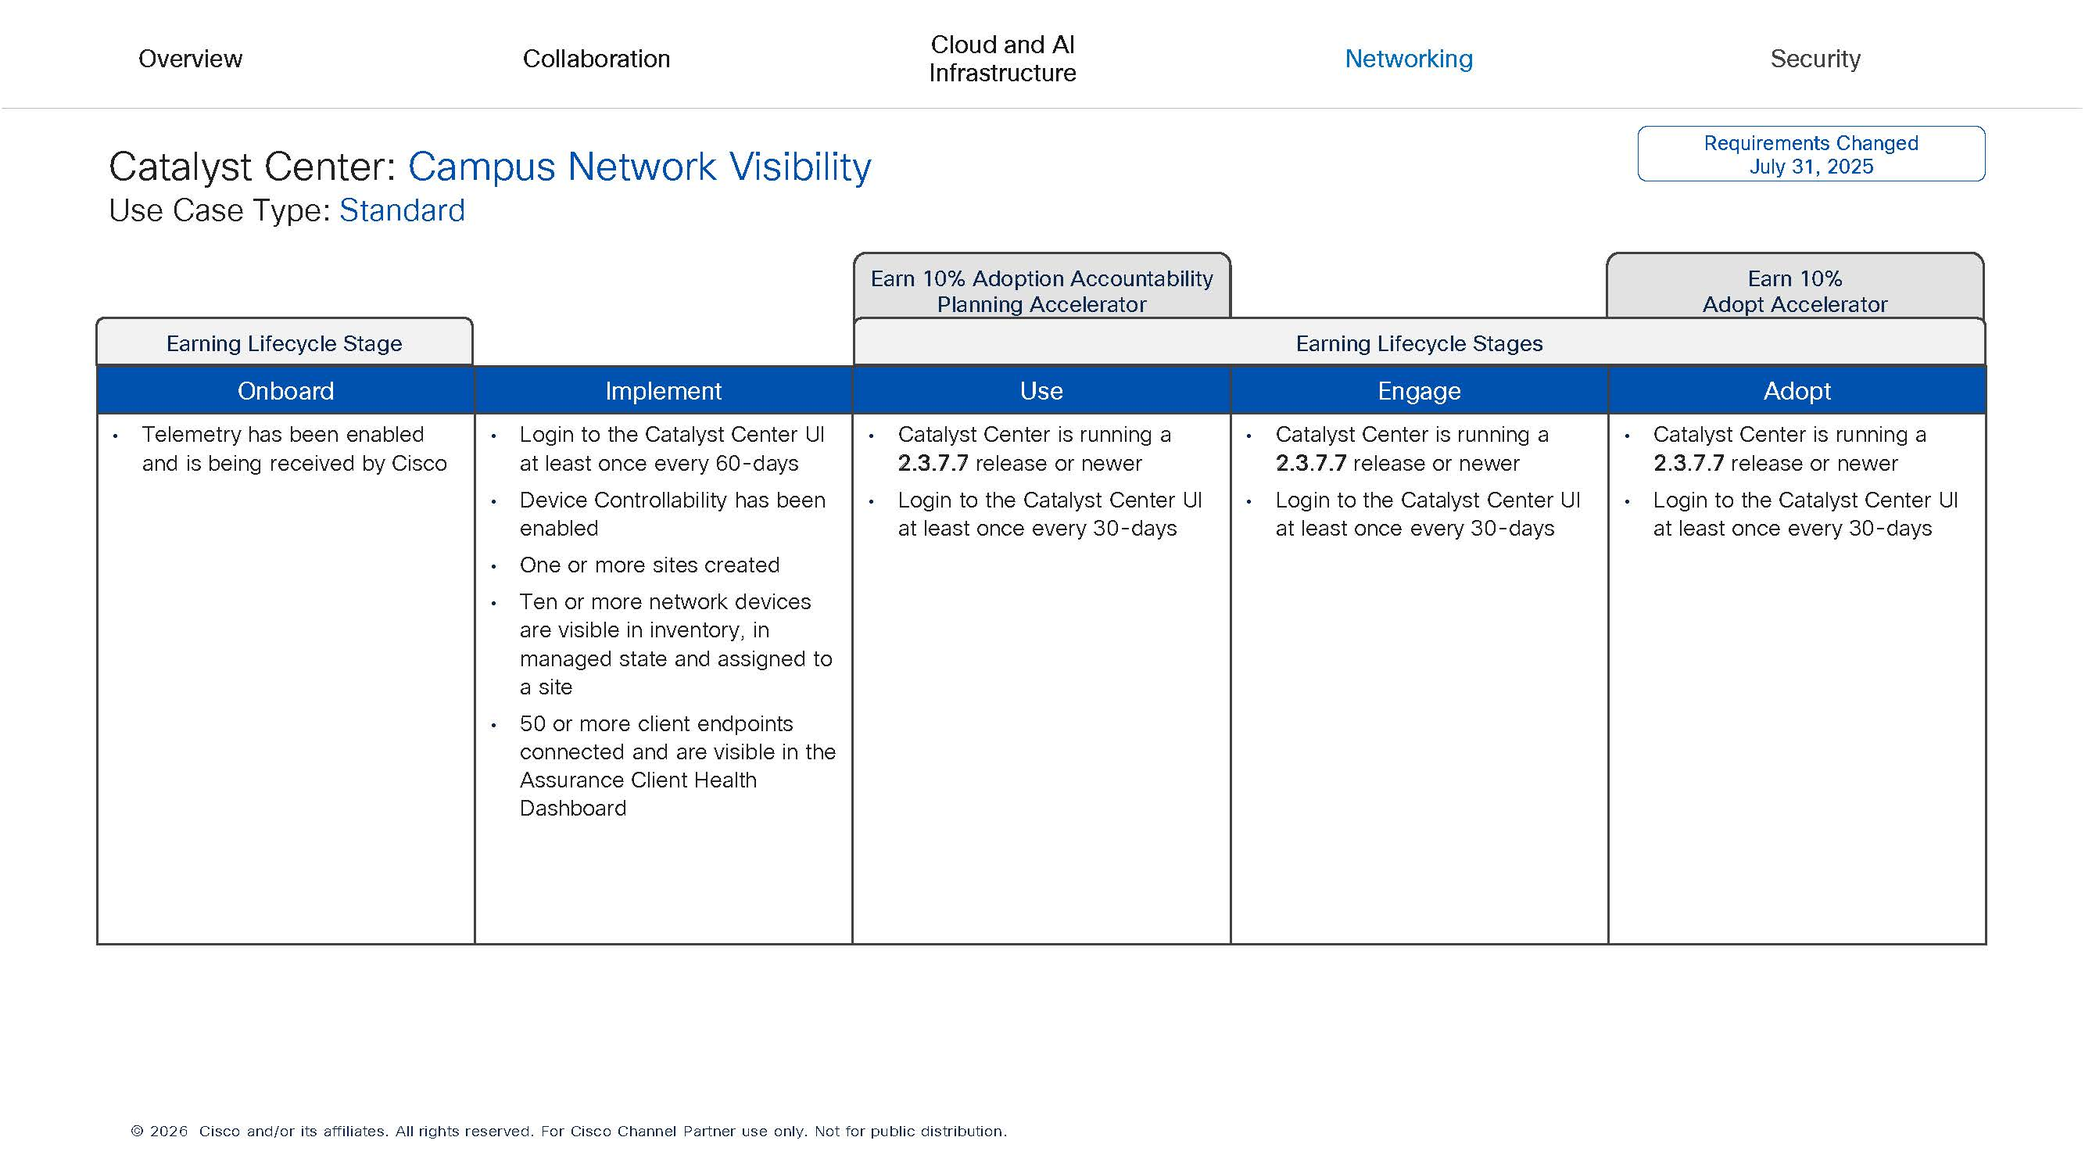
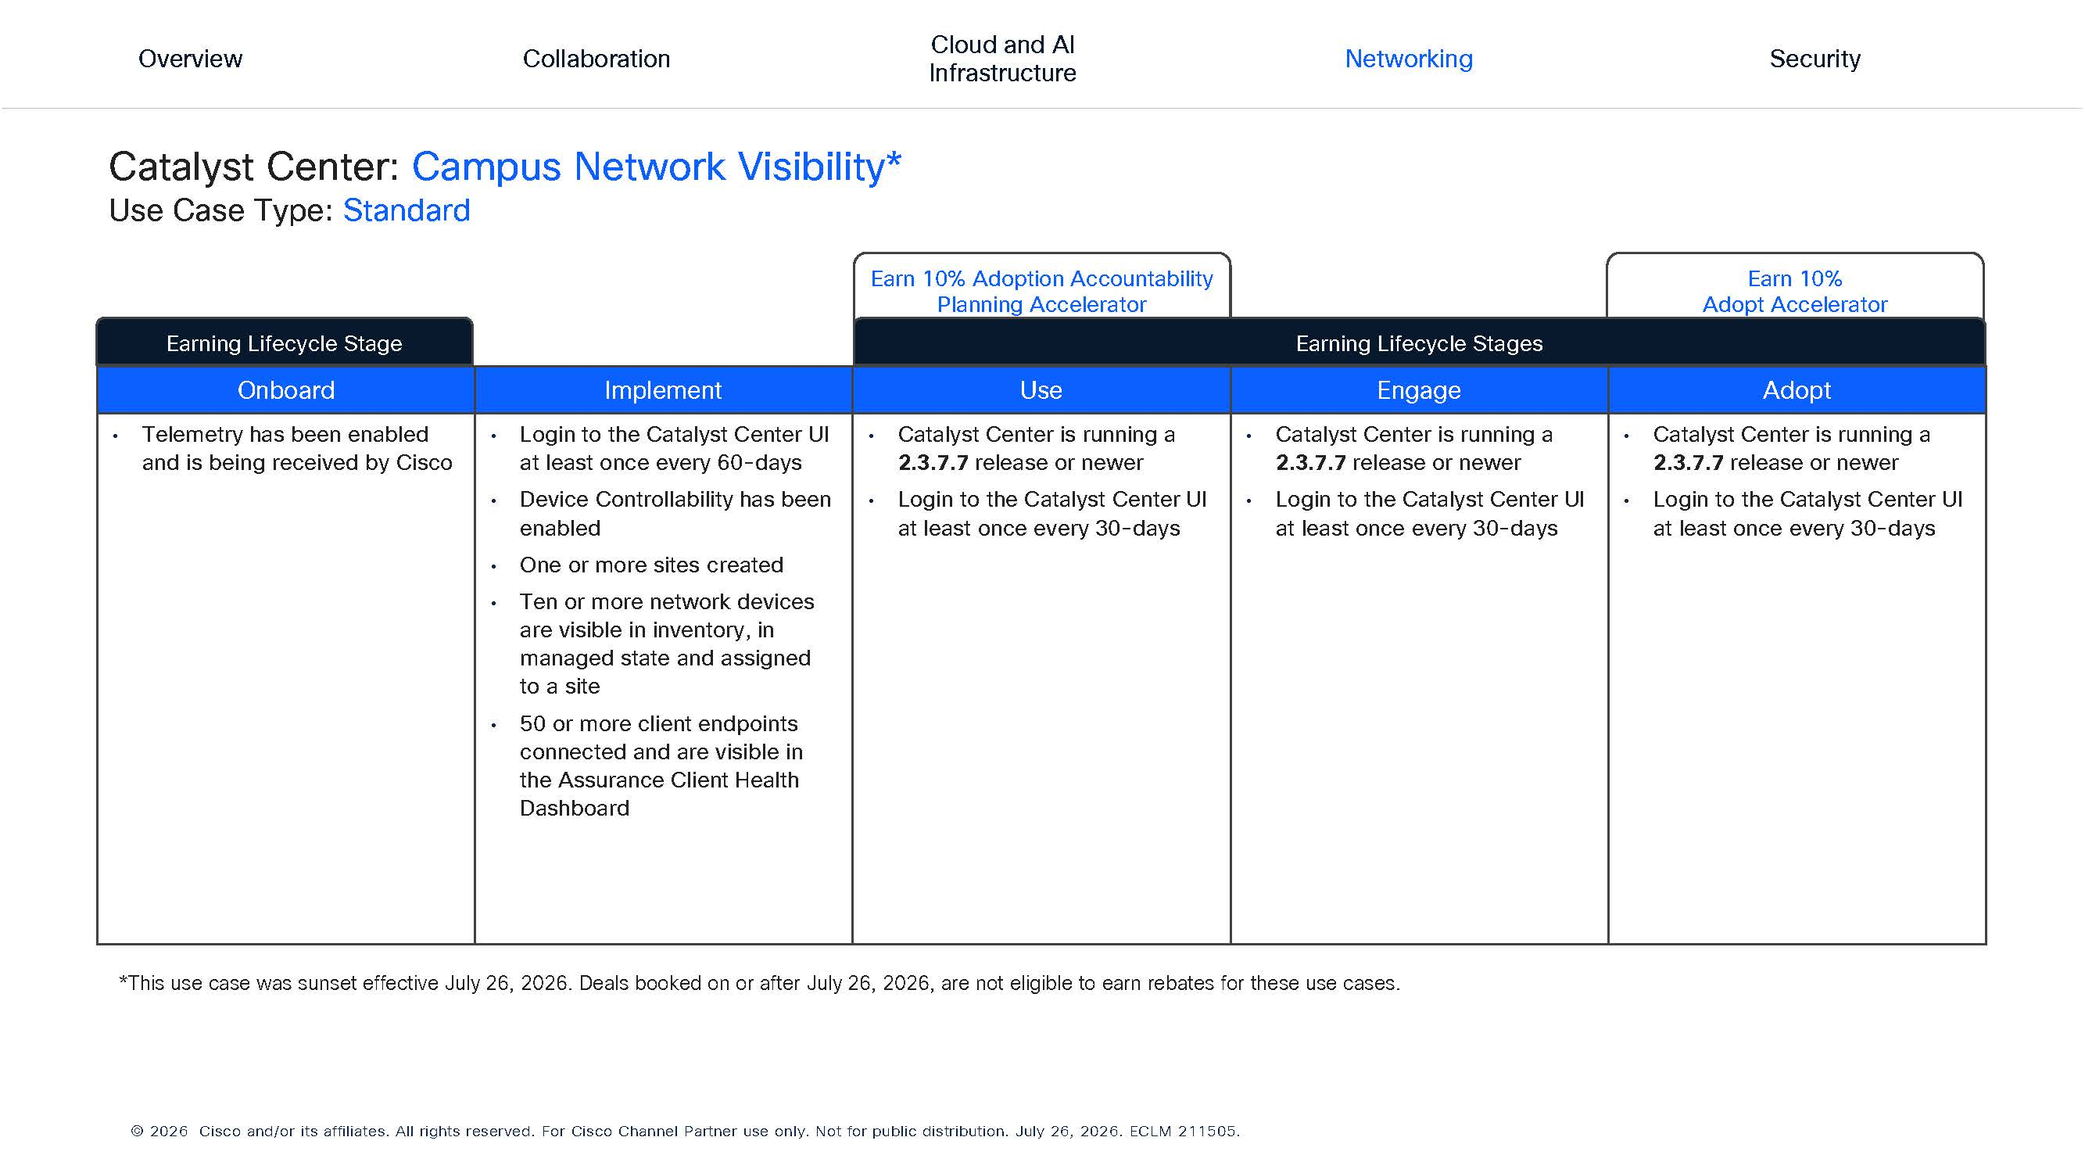
v1.8 — Aug updates
- Bump version to v1.8
- Add Cisco Secure Access offer (Security portfolio) with Secure Internet Access, Secure Private Access, DNS Defense use cases
- Add guide links and criteria images for new use cases
- Add incentive type (Standard/Advanced) to all mapping entries; Overview tab now uses mapping for type badges
- Fix Overview first column text clipping
- Fix portfolio repair (Step 2b) in transformData for No Offer records
- Add sunset asterisk on Campus Network Visibility, DNS Security, Public Cloud Security Policy and Access in Overview

diff --git a/js/mapping.js b/js/mapping.js
@@ -4,34 +4,37 @@
 // =============================================================================
 
 var CPI_MAPPING = [
-  { portfolio: "Networking",                offer: "Catalyst Center",               useCase: "Campus Network Automation",                              guide: "https://salesresources.cisco.com/Link/Content/DCVDV84mh3TJQ8QDPD3b8W2DTcW3" },
-  { portfolio: "Networking",                offer: "Catalyst Center",               useCase: "Campus Network Observability and Insights",               guide: "https://salesresources.cisco.com/Link/Content/DC9H9RVF89BMXGF2dXb2BFQFM7T8" },
-  { portfolio: "Networking",                offer: "Catalyst Center",               useCase: "Campus Network Programmability and Integrations",         guide: "https://salesresources.cisco.com/Link/Content/DCc8W63BVHF4W87WV3Pf8PVcFq8P" },
-  { portfolio: "Networking",                offer: "Catalyst Center",               useCase: "Campus Network Segmentation",                            guide: "https://salesresources.cisco.com/Link/Content/DCmXHjbd8qqG284Jc2h7fhqCjXhG" },
-  { portfolio: "Networking",                offer: "Catalyst Center",               useCase: "Campus Network Visibility",                              guide: "https://salesresources.cisco.com/Link/Content/DC7RTb387qGWh8qWmHhfR494d48j" },
-  { portfolio: "Networking",                offer: "Catalyst Center",               useCase: "Cloud Monitoring for Catalyst",                          guide: "https://salesresources.cisco.com/Link/Content/DCc6fbbGg4Dhh872BFDXbjP9T3c8" },
-  { portfolio: "Networking",                offer: "Catalyst Center",               useCase: "Internet and Cloud Visibility",                          guide: "https://salesresources.cisco.com/Link/Content/DCqqQQh9MFjC7GhB4f27p3Q29Mp8" },
-  { portfolio: "Networking",                offer: "Catalyst Center",               useCase: "Location Based Intelligence",                            guide: "https://salesresources.cisco.com/Link/Content/DCXqmHdjGfcB38CCfXbBcTWMXTQV" },
-  { portfolio: "Networking",                offer: "Meraki",                        useCase: "Foundational Networking and Security for Meraki",        guide: "https://salesresources.cisco.com/Link/Content/DCq946RP494fQGhMMj8Tj7DFhMFB" },
-  { portfolio: "Networking",                offer: "Meraki",                        useCase: "Programmability and Integrations for Meraki",            guide: "https://salesresources.cisco.com/Link/Content/DCJFWjc8VhHmdGc27fQgm7VG8dJ8" },
-  { portfolio: "Networking",                offer: "SD WAN",                        useCase: "Multicloud Connectivity",                                guide: "https://salesresources.cisco.com/Link/Content/DC6b33dB8DFQ7GFD884m9JCFVHRd" },
-  { portfolio: "Networking",                offer: "SD WAN",                        useCase: "SD-Routing",                                             guide: "https://salesresources.cisco.com/Link/Content/DCXpXdRBQW63287WQf7pVJm4fqFd" },
-  { portfolio: "Networking",                offer: "SD WAN",                        useCase: "Secure Automated WAN",                                   guide: "https://salesresources.cisco.com/Link/Content/DCT9mHbWqbjVq89JRmXWmcRjdF6d" },
-  { portfolio: "Security",                  offer: "Cisco Secure Network Analytics", useCase: "Network Security Analytics",                            guide: "https://salesresources.cisco.com/Link/Content/DC3h72hWC28BDG2MFXj9FQWdFgd8" },
-  { portfolio: "Security",                  offer: "Duo",                           useCase: "Secure Application Access With Phishing-Resistant MFA", guide: "https://salesresources.cisco.com/Link/Content/DChWJPjDhBHCG8cQQT4dJhGDGqXB" },
-  { portfolio: "Security",                  offer: "Cisco Umbrella",                useCase: "DNS Security",                                           guide: "https://salesresources.cisco.com/Link/Content/DCTmhf2TBqq4WG7Xh7TVbHDTFfF3" },
-  { portfolio: "Security",                  offer: "Cisco Umbrella",                useCase: "Public Cloud Security Policy and Access",                guide: "https://salesresources.cisco.com/Link/Content/DCJThRm6W4gMBGHWGRP9bRXh8Hjd" },
-  { portfolio: "Security",                  offer: "Cisco Secure Firewall",         useCase: "Data Center Firewall Operations",                        guide: "https://salesresources.cisco.com/Link/Content/DCHFpmXWT92HTGQCqH6Mfm3gCPj3" },
-  { portfolio: "Security",                  offer: "Cisco Secure Firewall",         useCase: "Internet Edge Protection",                               guide: "https://salesresources.cisco.com/Link/Content/DCCjTFMPQQWGG8WF2GjCgHCRpffB" },
-  { portfolio: "Security",                  offer: "Identity Services Engine",      useCase: "Network Access Control",                                 guide: "https://salesresources.cisco.com/Link/Content/DCjjXWbm7hpJPGcT9XpV7MpW47cj" },
-  { portfolio: "Cloud + AI Infrastructure", offer: "Cisco Intersight",              useCase: "Simplified Operations",                                  guide: "https://salesresources.cisco.com/Link/Content/DC4Pd2GRgGFRg8cFdMQWMqcMFC7d" },
-  { portfolio: "Cloud + AI Infrastructure", offer: "Data Center Networking",        useCase: "Data Center Network Operations",                         guide: "https://salesresources.cisco.com/Link/Content/DCMTJ82j6CjgbG9RT6pMjpgDpFXG" },
-  { portfolio: "Cloud + AI Infrastructure", offer: "Data Center Networking",        useCase: "Distributed Networking",                                 guide: "https://salesresources.cisco.com/Link/Content/DCbB2Mm8GbV3G8qJJgmb4qqQJJTP" },
-  { portfolio: "Cloud + AI Infrastructure", offer: "Data Center Networking",        useCase: "Distributed Networking with NDFC (DCNM)",                guide: "https://salesresources.cisco.com/Link/Content/DC7Qh9M2bJHDM8f2fjDqhPjVX6Pj" },
-  { portfolio: "Cloud + AI Infrastructure", offer: "Data Center Networking",        useCase: "Fabric Provisioning and Operations with NDFC (DCNM)",    guide: "https://salesresources.cisco.com/Link/Content/DCH4dRd8bC7q38WDVGPCqjTdgf2j" },
-  { portfolio: "Cloud + AI Infrastructure", offer: "Data Center Networking",        useCase: "Network Provisioning and Operations",                    guide: "https://salesresources.cisco.com/Link/Content/DCC6qVR97QGWH8fX7DjRdCRWgHCB" },
-  { portfolio: "Collaboration",             offer: "Webex Suite",                   useCase: "Webex Calling and App",                                  guide: null },
-  { portfolio: "Collaboration",             offer: "Cisco Contact Center",          useCase: "Webex Contact Center",                                   guide: null }
+  { portfolio: "Networking",                offer: "Catalyst Center",               useCase: "Campus Network Automation",                              type: "Standard", guide: "https://salesresources.cisco.com/Link/Content/DCVDV84mh3TJQ8QDPD3b8W2DTcW3" },
+  { portfolio: "Networking",                offer: "Catalyst Center",               useCase: "Campus Network Observability and Insights",               type: "Standard", guide: "https://salesresources.cisco.com/Link/Content/DC9H9RVF89BMXGF2dXb2BFQFM7T8" },
+  { portfolio: "Networking",                offer: "Catalyst Center",               useCase: "Campus Network Programmability and Integrations",         type: "Advanced", guide: "https://salesresources.cisco.com/Link/Content/DCc8W63BVHF4W87WV3Pf8PVcFq8P" },
+  { portfolio: "Networking",                offer: "Catalyst Center",               useCase: "Campus Network Segmentation",                            type: "Advanced", guide: "https://salesresources.cisco.com/Link/Content/DCmXHjbd8qqG284Jc2h7fhqCjXhG" },
+  { portfolio: "Networking",                offer: "Catalyst Center",               useCase: "Campus Network Visibility",                              type: "Standard", guide: "https://salesresources.cisco.com/Link/Content/DC7RTb387qGWh8qWmHhfR494d48j" },
+  { portfolio: "Networking",                offer: "Catalyst Center",               useCase: "Cloud Monitoring for Catalyst",                          type: "Standard", guide: "https://salesresources.cisco.com/Link/Content/DCc6fbbGg4Dhh872BFDXbjP9T3c8" },
+  { portfolio: "Networking",                offer: "Catalyst Center",               useCase: "Internet and Cloud Visibility",                          type: "Standard", guide: "https://salesresources.cisco.com/Link/Content/DCqqQQh9MFjC7GhB4f27p3Q29Mp8" },
+  { portfolio: "Networking",                offer: "Catalyst Center",               useCase: "Location Based Intelligence",                            type: "Advanced", guide: "https://salesresources.cisco.com/Link/Content/DCXqmHdjGfcB38CCfXbBcTWMXTQV" },
+  { portfolio: "Networking",                offer: "Meraki",                        useCase: "Foundational Networking and Security for Meraki",        type: "Standard", guide: "https://salesresources.cisco.com/Link/Content/DCq946RP494fQGhMMj8Tj7DFhMFB" },
+  { portfolio: "Networking",                offer: "Meraki",                        useCase: "Programmability and Integrations for Meraki",            type: "Advanced", guide: "https://salesresources.cisco.com/Link/Content/DCJFWjc8VhHmdGc27fQgm7VG8dJ8" },
+  { portfolio: "Networking",                offer: "SD WAN",                        useCase: "Multicloud Connectivity",                                type: "Advanced", guide: "https://salesresources.cisco.com/Link/Content/DC6b33dB8DFQ7GFD884m9JCFVHRd" },
+  { portfolio: "Networking",                offer: "SD WAN",                        useCase: "SD-Routing",                                             type: "Standard", guide: "https://salesresources.cisco.com/Link/Content/DCXpXdRBQW63287WQf7pVJm4fqFd" },
+  { portfolio: "Networking",                offer: "SD WAN",                        useCase: "Secure Automated WAN",                                   type: "Advanced", guide: "https://salesresources.cisco.com/Link/Content/DCT9mHbWqbjVq89JRmXWmcRjdF6d" },
+  { portfolio: "Security",                  offer: "Cisco Secure Network Analytics", useCase: "Network Security Analytics",                            type: "Standard", guide: "https://salesresources.cisco.com/Link/Content/DC3h72hWC28BDG2MFXj9FQWdFgd8" },
+  { portfolio: "Security",                  offer: "Duo",                           useCase: "Secure Application Access With Phishing-Resistant MFA", type: "Standard", guide: "https://salesresources.cisco.com/Link/Content/DChWJPjDhBHCG8cQQT4dJhGDGqXB" },
+  { portfolio: "Security",                  offer: "Cisco Umbrella",                useCase: "DNS Security",                                           type: "Standard", guide: "https://salesresources.cisco.com/Link/Content/DCTmhf2TBqq4WG7Xh7TVbHDTFfF3" },
+  { portfolio: "Security",                  offer: "Cisco Umbrella",                useCase: "Public Cloud Security Policy and Access",                type: "Advanced", guide: "https://salesresources.cisco.com/Link/Content/DCJThRm6W4gMBGHWGRP9bRXh8Hjd" },
+  { portfolio: "Security",                  offer: "Cisco Secure Firewall",         useCase: "Data Center Firewall Operations",                        type: "Advanced", guide: "https://salesresources.cisco.com/Link/Content/DCHFpmXWT92HTGQCqH6Mfm3gCPj3" },
+  { portfolio: "Security",                  offer: "Cisco Secure Firewall",         useCase: "Internet Edge Protection",                               type: "Advanced", guide: "https://salesresources.cisco.com/Link/Content/DCCjTFMPQQWGG8WF2GjCgHCRpffB" },
+  { portfolio: "Security",                  offer: "Identity Services Engine",      useCase: "Network Access Control",                                type: "Standard", guide: "https://salesresources.cisco.com/Link/Content/DCjjXWbm7hpJPGcT9XpV7MpW47cj" },
+  { portfolio: "Security",                  offer: "Cisco Secure Access",            useCase: "Secure Internet Access",                                type: "Standard", guide: "https://salesresources.cisco.com/Link/Content/DChPgMTQ37dhmGTMQq6f7Fm2bHVG" },
+  { portfolio: "Security",                  offer: "Cisco Secure Access",            useCase: "Secure Private Access",                                 type: "Standard", guide: "https://salesresources.cisco.com/Link/Content/DCcCB2Jfp2qGgGhRHDB4cD9JXRbP" },
+  { portfolio: "Security",                  offer: "Cisco Secure Access",            useCase: "DNS Defense",                                           type: "Standard", guide: "https://salesresources.cisco.com/Link/Content/DCb4hMW72p6J7G4RJ9h8GjGVq9Mj" },
+  { portfolio: "Cloud + AI Infrastructure", offer: "Cisco Intersight",              useCase: "Simplified Operations",                                  type: "Standard", guide: "https://salesresources.cisco.com/Link/Content/DC4Pd2GRgGFRg8cFdMQWMqcMFC7d" },
+  { portfolio: "Cloud + AI Infrastructure", offer: "Data Center Networking",        useCase: "Data Center Network Operations",                         type: "Advanced", guide: "https://salesresources.cisco.com/Link/Content/DCMTJ82j6CjgbG9RT6pMjpgDpFXG" },
+  { portfolio: "Cloud + AI Infrastructure", offer: "Data Center Networking",        useCase: "Distributed Networking",                                 type: "Advanced", guide: "https://salesresources.cisco.com/Link/Content/DCbB2Mm8GbV3G8qJJgmb4qqQJJTP" },
+  { portfolio: "Cloud + AI Infrastructure", offer: "Data Center Networking",        useCase: "Distributed Networking with NDFC (DCNM)",                type: "Advanced", guide: "https://salesresources.cisco.com/Link/Content/DC7Qh9M2bJHDM8f2fjDqhPjVX6Pj" },
+  { portfolio: "Cloud + AI Infrastructure", offer: "Data Center Networking",        useCase: "Fabric Provisioning and Operations with NDFC (DCNM)",    type: "Standard", guide: "https://salesresources.cisco.com/Link/Content/DCH4dRd8bC7q38WDVGPCqjTdgf2j" },
+  { portfolio: "Cloud + AI Infrastructure", offer: "Data Center Networking",        useCase: "Network Provisioning and Operations",                    type: "Standard", guide: "https://salesresources.cisco.com/Link/Content/DCC6qVR97QGWH8fX7DjRdCRWgHCB" },
+  { portfolio: "Collaboration",             offer: "Webex Suite",                   useCase: "Webex Calling and App",                                  type: "Standard", guide: null },
+  { portfolio: "Collaboration",             offer: "Cisco Contact Center",          useCase: "Webex Contact Center",                                   type: "Advanced", guide: null }
 ];
 
 // Lookup: offer name (normalised upper) → portfolio
@@ -70,6 +73,15 @@ var UC_GUIDE_MAP = (function () {
   return map;
 }());
 
+// Lookup: use case name (normalised upper) → incentive type ("Standard" / "Advanced")
+var UC_TYPE_MAP = (function () {
+  var map = {};
+  CPI_MAPPING.forEach(function (entry) {
+    if (entry.type) map[entry.useCase.toUpperCase()] = entry.type;
+  });
+  return map;
+}());
+
 // Lookup: use case name → criteria image path (relative to app root)
 var UC_CRITERIA_MAP = {
   "Campus Network Automation":                               "criteria/Campus Network Automation.jpg",
@@ -92,6 +104,9 @@ var UC_CRITERIA_MAP = {
   "Data Center Firewall Operations":                        "criteria/Data Center Firewall Operations.jpg",
   "Internet Edge Protection":                               "criteria/Internet Edge Protection.jpg",
   "Network Access Control":                                 "criteria/Network Access Control.jpg",
+  "Secure Internet Access":                                 "criteria/Secure Internet Access.jpg",
+  "Secure Private Access":                                  "criteria/Secure Private Access.jpg",
+  "DNS Defense":                                            "criteria/DNS Defense.jpg",
   "Simplified Operations":                                  "criteria/Simplified Operations.jpg",
   "Data Center Network Operations":                         "criteria/Data Center Network Operations.jpg",
   "Distributed Networking":                                 "criteria/Distributed Networking.jpg",

diff --git a/js/overview.js b/js/overview.js
@@ -329,6 +329,12 @@ function renderOverview(data) {
       }).join(" ");
     }
 
+    var SUNSET_UCS = {
+      "CAMPUS NETWORK VISIBILITY": true,
+      "DNS SECURITY": true,
+      "PUBLIC CLOUD SECURITY POLICY AND ACCESS": true
+    };
+
     var tbody = "<tbody>";
     var portfolioOrder = ["Networking", "Security", "Cloud", "Cloud + AI Infrastructure", "Collaboration"];
     var domainKeys = Object.keys(groups).sort(function (a, b) {
@@ -359,8 +365,9 @@ function renderOverview(data) {
             groups[portfolio][offer][uc][tp].forEach(function (r) { ucAllRows.push(r); });
           });
           var ucCalc = calcRow(ucAllRows);
+          var sunsetMark = SUNSET_UCS[uc.toUpperCase()] ? '<span title="Sunset 26 July 2026"> *</span>' : '';
           tbody += '<tr class="ovw-uc-row" data-portfolio="' + pKey + '" data-offer="' + oKey + '"><td style="padding-left:2rem">' +
-            escHtml(uc) + '&nbsp;' + typeTags(typeKeys) + '</td>';
+            escHtml(uc) + sunsetMark + '&nbsp;' + typeTags([UC_TYPE_MAP[uc.toUpperCase()] || ""]) + '</td>';
           cols.forEach(function (c) { tbody += td(c, ucCalc[c]); });
           tbody += "</tr>";
         });
@@ -391,7 +398,8 @@ function renderOverview(data) {
 
     var thead = '<thead>' + groupRow + colHeaderRow + totalsRow + '</thead>';
 
-    var tableHtml = '<div class="table-wrapper"><table class="table table-bordered table-hover mb-0">' + thead + tbody + "</table></div>";
+    var tableHtml = '<div class="table-wrapper"><table class="table table-bordered table-hover mb-0">' + thead + tbody + "</table></div>" +
+      '<p class="text-muted mt-2 mb-0" style="font-size:0.78rem">* This use case has been sunset on 26 July 2026.</p>';
     document.getElementById("ovw-table-area").innerHTML = tableHtml;
 
     // Initialise Bootstrap tooltips on info icons

diff --git a/css/styles.css b/css/styles.css
@@ -219,6 +219,14 @@
 .ovw-portfolio-row td { background: #1B2A3B !important; color: #fff; font-weight: 700; cursor: pointer; user-select: none; }
 .ovw-offer-row td  { background: #e8f0f7 !important; font-weight: 600; cursor: pointer; user-select: none; }
 .ovw-uc-row td     { background: #f4f8fc; }
+
+/* First column must never clip — let it size to its content */
+#tab-overview .table-wrapper tbody td:first-child {
+  overflow: visible;
+  text-overflow: clip;
+  max-width: none;
+  width: auto;
+}
 .ovw-chevron { display: inline-block; transition: transform 0.15s ease; font-size: 0.75em; margin-right: 4px; }
 .ovw-drilldown-link { color: inherit; text-decoration: none; border-bottom: 1px dashed currentColor; cursor: pointer; }
 .ovw-drilldown-link:hover { opacity: 0.75; }

diff --git a/js/main.js b/js/main.js
@@ -18,7 +18,7 @@ var APP_IS_DISTI = false;
 var APP_GEO_FILTER = "";   // BE GEO ID filter — applies to all tabs
 var APP_MULTI_SESSIONS = null;
 var APP_EXCL_ACTIVE = false;
-var APP_VERSION = "v1.7";
+var APP_VERSION = "v1.8";
 // Use the browser's preferred language for date formatting (respects user's browser locale setting)
 var APP_LOCALE = navigator.language || undefined;
 // Holds a FileSystemFileHandle from showOpenFilePicker() to be persisted after load
